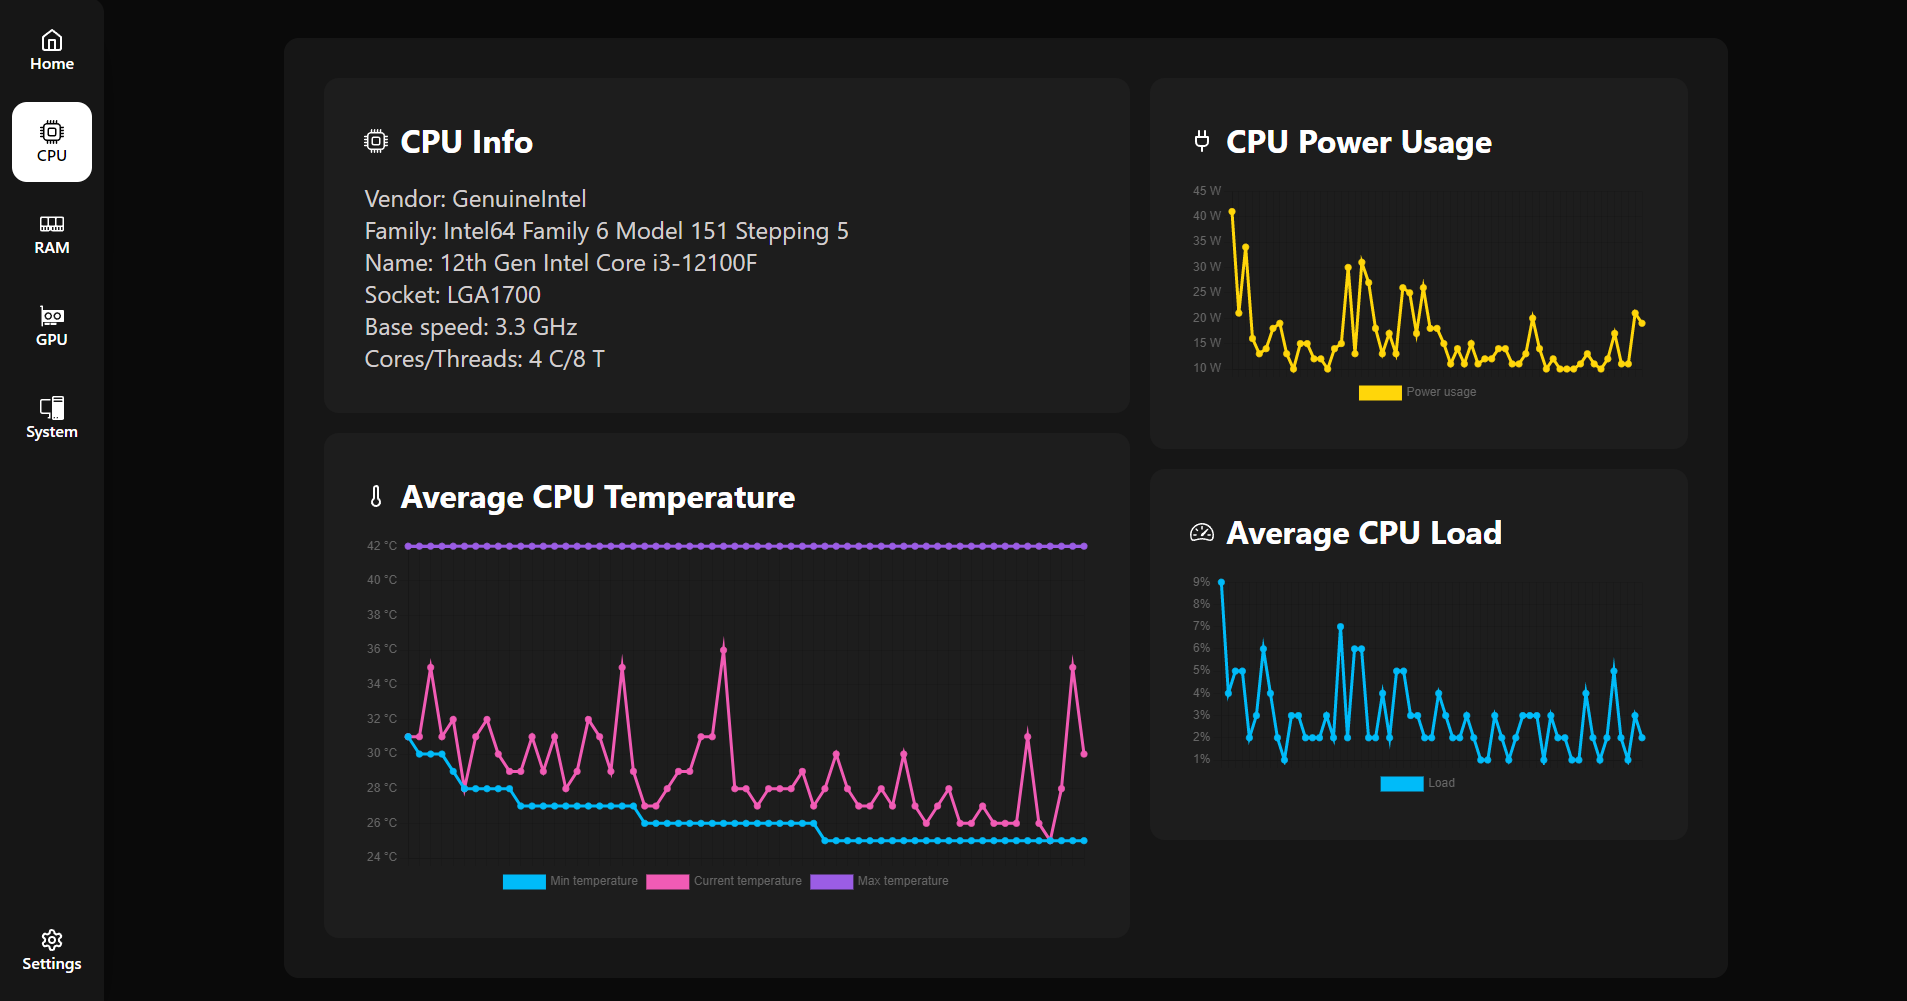
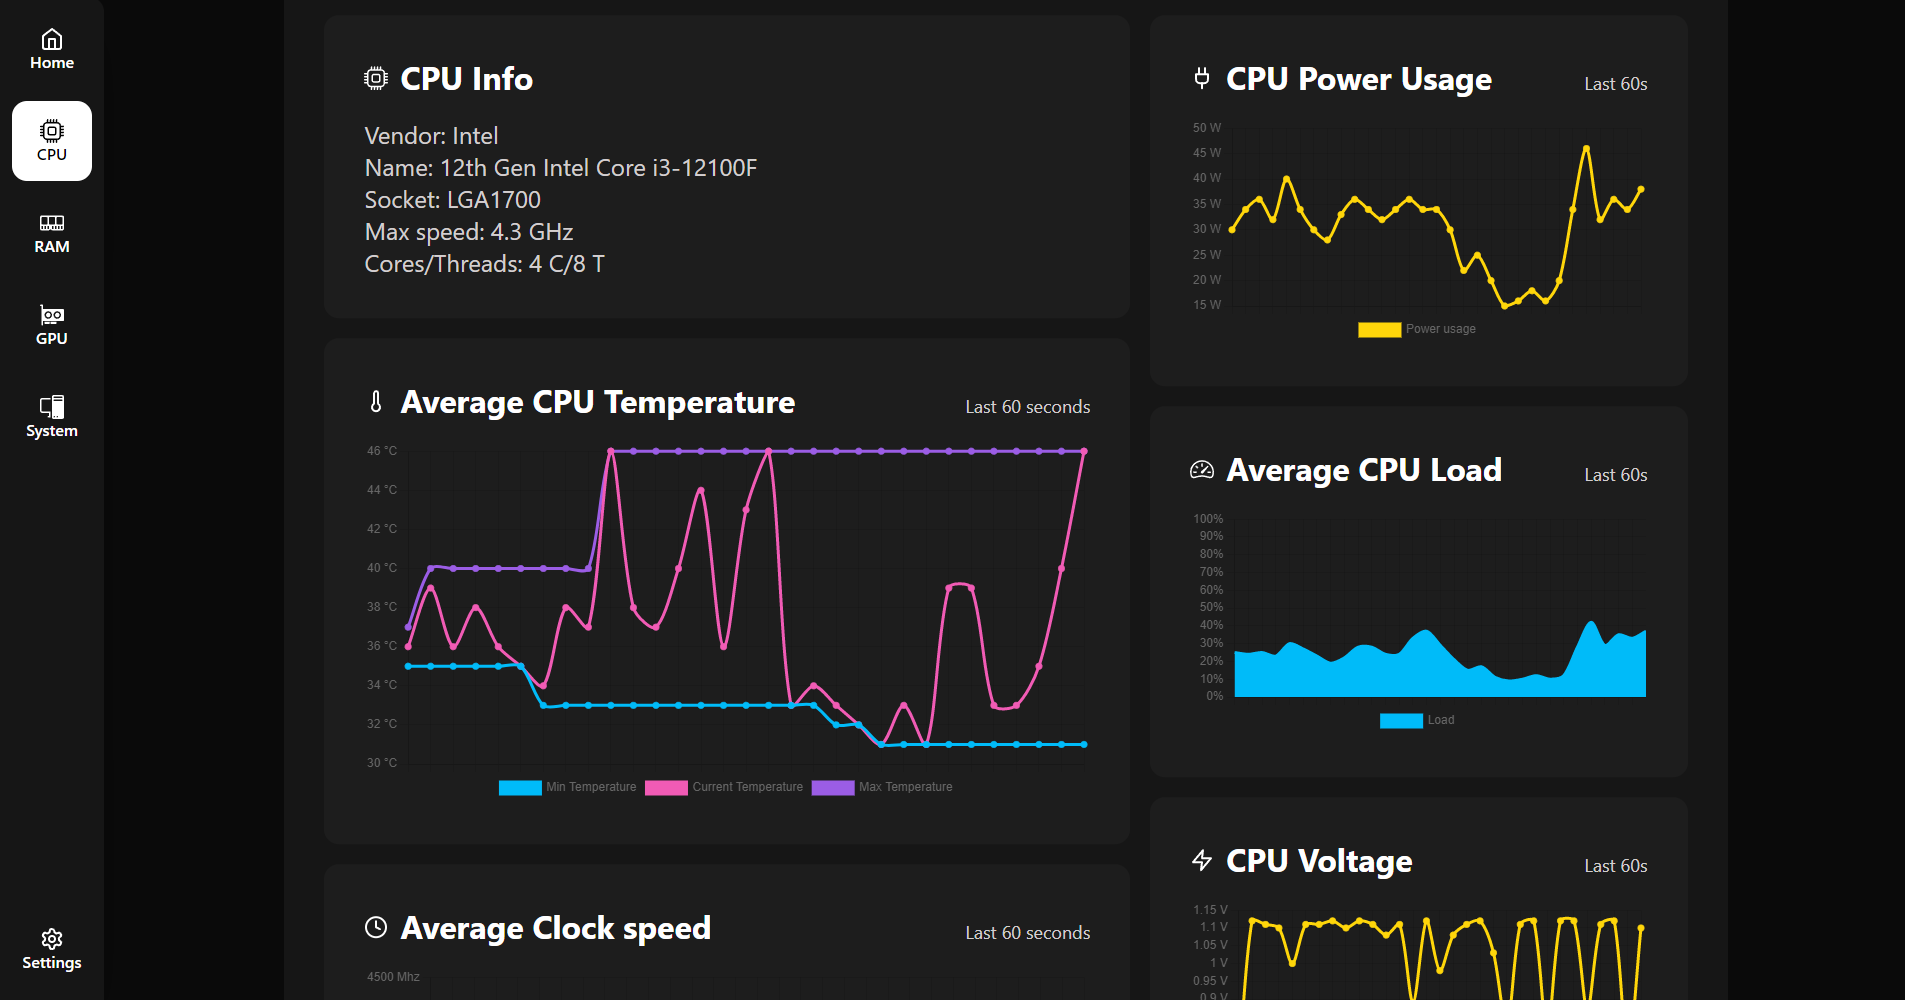
Update README and screenshots

diff --git a/README.md b/README.md
@@ -1,17 +1,14 @@
 # Cores
 
--   Hardware monitor
-
-## TODO
-
--   [ ] Mica background
--   [ ] CPU/GPU/RAM detailed info
--   [ ] GPU usage is sometimes bad
+-   Modern hardware monitor for Windows.
 
 ## Features
 
--   💻 Track CPU/RAM/GPU usage
--   🌡 Track CPU/GPU temperature, power usage
+-   💻 Monitor CPU/RAM/GPU usage like clock speed, voltage, memory usage
+-   🌡 Monitor CPU/GPU temperature
+-   📈 See beautiful CPU/RAM/GPU graphs
+-   💾 Monitor SSD health and temperature
+-   🖥 See detailed info about your computer
 
 ## Screenshot
 
